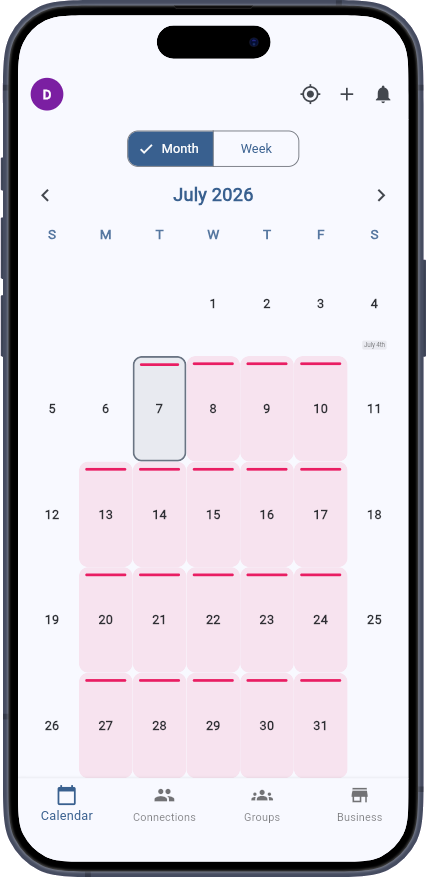
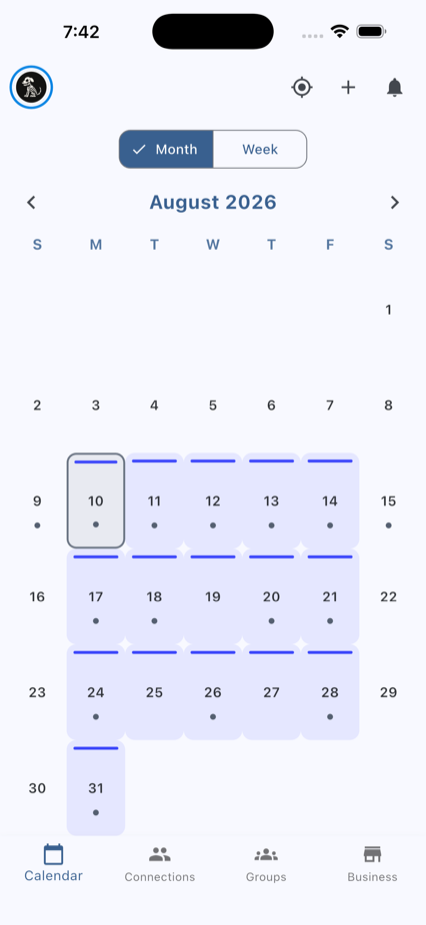
feat: support in nav + constellation; real app screenshots from the store set
- /plan top nav gains Support (footer already had it; nav is the visible spot)
- Homepage constellation gains a "support" node, centered between privacy and
  terms. The narrow-screen branch positions nodes from a pixel-target table
  keyed by label; a node missing from that table crashed the whole sphere
  (TypeError on targets[label][0]) — support has a target now, and the loop
  falls back to wide-screen angles for any future target-less node instead of
  dying. sphere.js cache-bust v=6 on all three pages.
- /plan "A look inside" screenshots replaced with the store-listing captures
  (Bone Dog account, populated): month calendar, shared group calendar, public
  business profile. Resampled to 426px wide like the originals; alts updated;
  ?v=2 cache-bust.

diff --git a/plan/index.html b/plan/index.html
@@ -24,6 +24,7 @@
     </a>
     <nav>
       <a href="/#ethos">Ethos</a>
+      <a href="/plan/support/">Support</a>
       <a href="mailto:admin@bonedogstudios.com">Contact</a>
     </nav>
   </header>
@@ -63,9 +64,9 @@
       <p class="section-kicker">A look inside</p>
       <h2>Quiet design, quick days.</h2>
       <div class="phones">
-        <img class="shot" src="/assets/img/screenshots/plan-1.png" alt="/plan calendar month view">
-        <img class="shot" src="/assets/img/screenshots/plan-2.png" alt="/plan calendar week view">
-        <img class="shot" src="/assets/img/screenshots/plan-3.png" alt="/plan day details timeline">
+        <img class="shot" src="/assets/img/screenshots/plan-1.png?v=2" alt="/plan month calendar with events and work schedule">
+        <img class="shot" src="/assets/img/screenshots/plan-2.png?v=2" alt="/plan shared group calendar with four members' color-coded events">
+        <img class="shot" src="/assets/img/screenshots/plan-3.png?v=2" alt="/plan public business profile with bookable services">
       </div>
     </section>
 
@@ -87,6 +88,6 @@
     </nav>
   </footer>
 
-  <script src="/assets/sphere.js?v=4" defer></script>
+  <script src="/assets/sphere.js?v=6" defer></script>
 </body>
 </html>

diff --git a/assets/sphere.js b/assets/sphere.js
@@ -48,6 +48,7 @@
     { label: "ethos",   href: "#ethos",                          az: 18, el: 22  },
     { label: "work",    href: "#work",                           az: 42, el: 18  },
     { label: "contact", href: "mailto:admin@bonedogstudios.com", az: 46, el: -8  },
+    { label: "support", href: "/plan/support/",                  az: 30, el: -12 },
     { label: "privacy", href: "/plan/privacy/",                  az: 18, el: -20 },
     { label: "terms",   href: "/plan/terms/",                    az: 42, el: -22 },
   ];
@@ -81,9 +82,15 @@
         "ethos":   [0.17 * W, cy + 265],
         "work":    [0.83 * W, cy + 265],
         "contact": [0.50 * W, Math.min(H - 60, cy + 330)],
+        "support": [0.50 * W, cy - 190],
       };
       links.forEach(function (l) {
         var t = targets[l.label];
+        if (!t) {                      // node without a pixel target: keep its
+          l.azV = l.az * RAD;          // wide-screen angles instead of crashing
+          l.elV = l.el * RAD;          // the whole constellation
+          return;
+        }
         l.azV = 30 * RAD + Math.atan2(t[0] - cx, F);
         l.elV = Math.atan2(t[1] - cy, F);
       });

diff --git a/plan/support/index.html b/plan/support/index.html
@@ -112,6 +112,6 @@
     </nav>
   </footer>
 
-  <script src="/assets/sphere.js?v=4" defer></script>
+  <script src="/assets/sphere.js?v=6" defer></script>
 </body>
 </html>

diff --git a/index.html b/index.html
@@ -80,6 +80,6 @@
     </nav>
   </footer>
 
-  <script src="/assets/sphere.js?v=4" defer></script>
+  <script src="/assets/sphere.js?v=6" defer></script>
 </body>
 </html>
